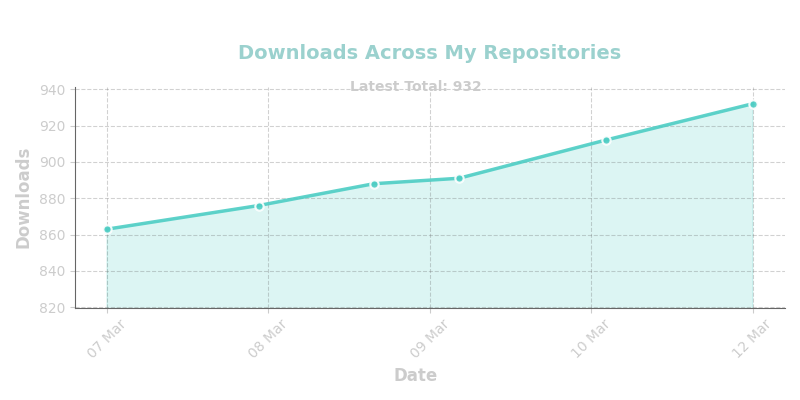
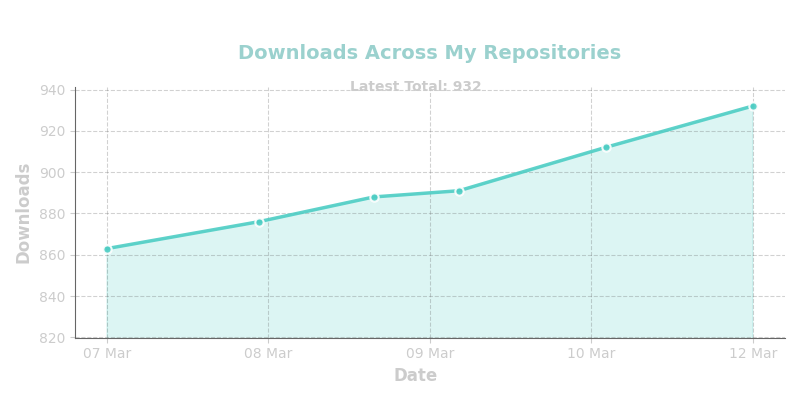
remove rotation on x axis tick labels

diff --git a/src/charts/generate_total_downloads_chart.py b/src/charts/generate_total_downloads_chart.py
@@ -122,9 +122,6 @@ def generate_total_downloads_chart(points: list[DownloadsDataPoint]):
     formatter = mdates.DateFormatter(theme.Axis.date_format)
     ax.xaxis.set_major_formatter(formatter)
 
-    # tilt date labels
-    ax.xaxis.set_tick_params(rotation=theme.Axis.tick_rotation)
-
     # Auto-adjusts subplot spacing to prevent overlapping labels/titles etc
     plt.tight_layout()
 

diff --git a/src/constants/theme.py b/src/constants/theme.py
@@ -42,7 +42,6 @@ class Grid:
 class Axis:
     y_min_margin: ClassVar[float] = 0.95
     y_max_margin: ClassVar[float] = 1.01
-    tick_rotation: ClassVar[int] = 45
     date_format: ClassVar[str] = "%d %b"  # Day number and abbreviated month
 
 class Chart:
